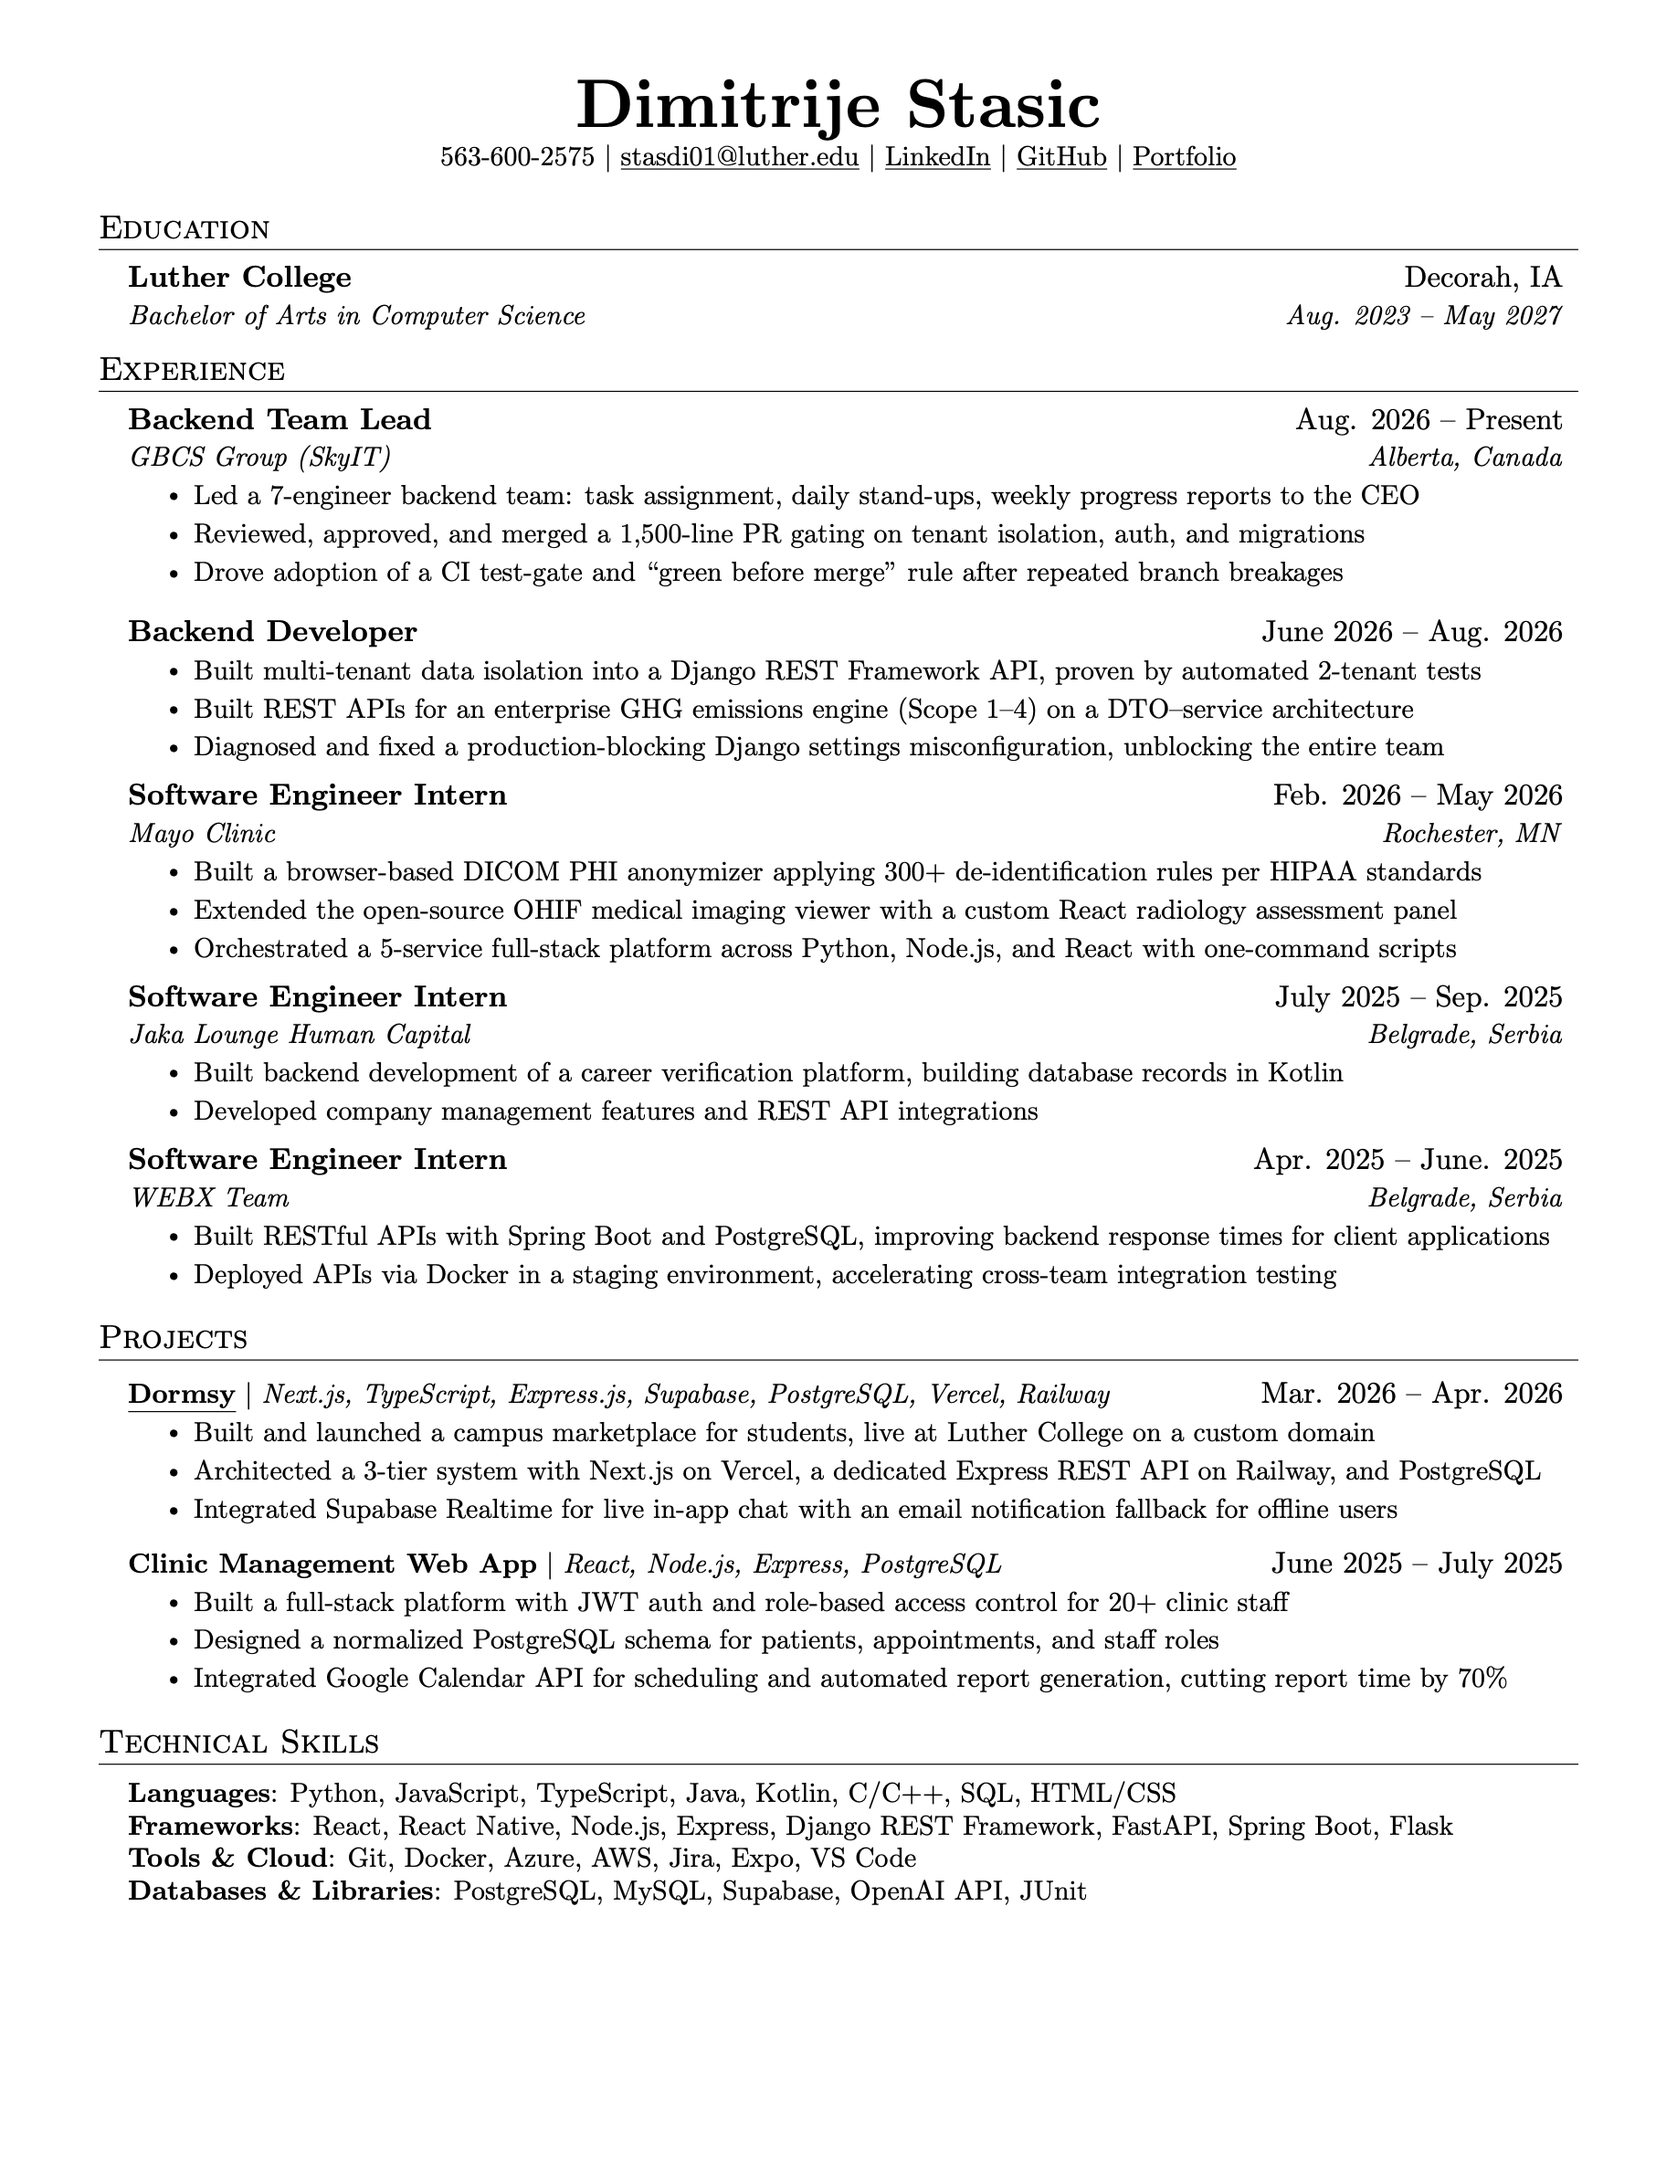
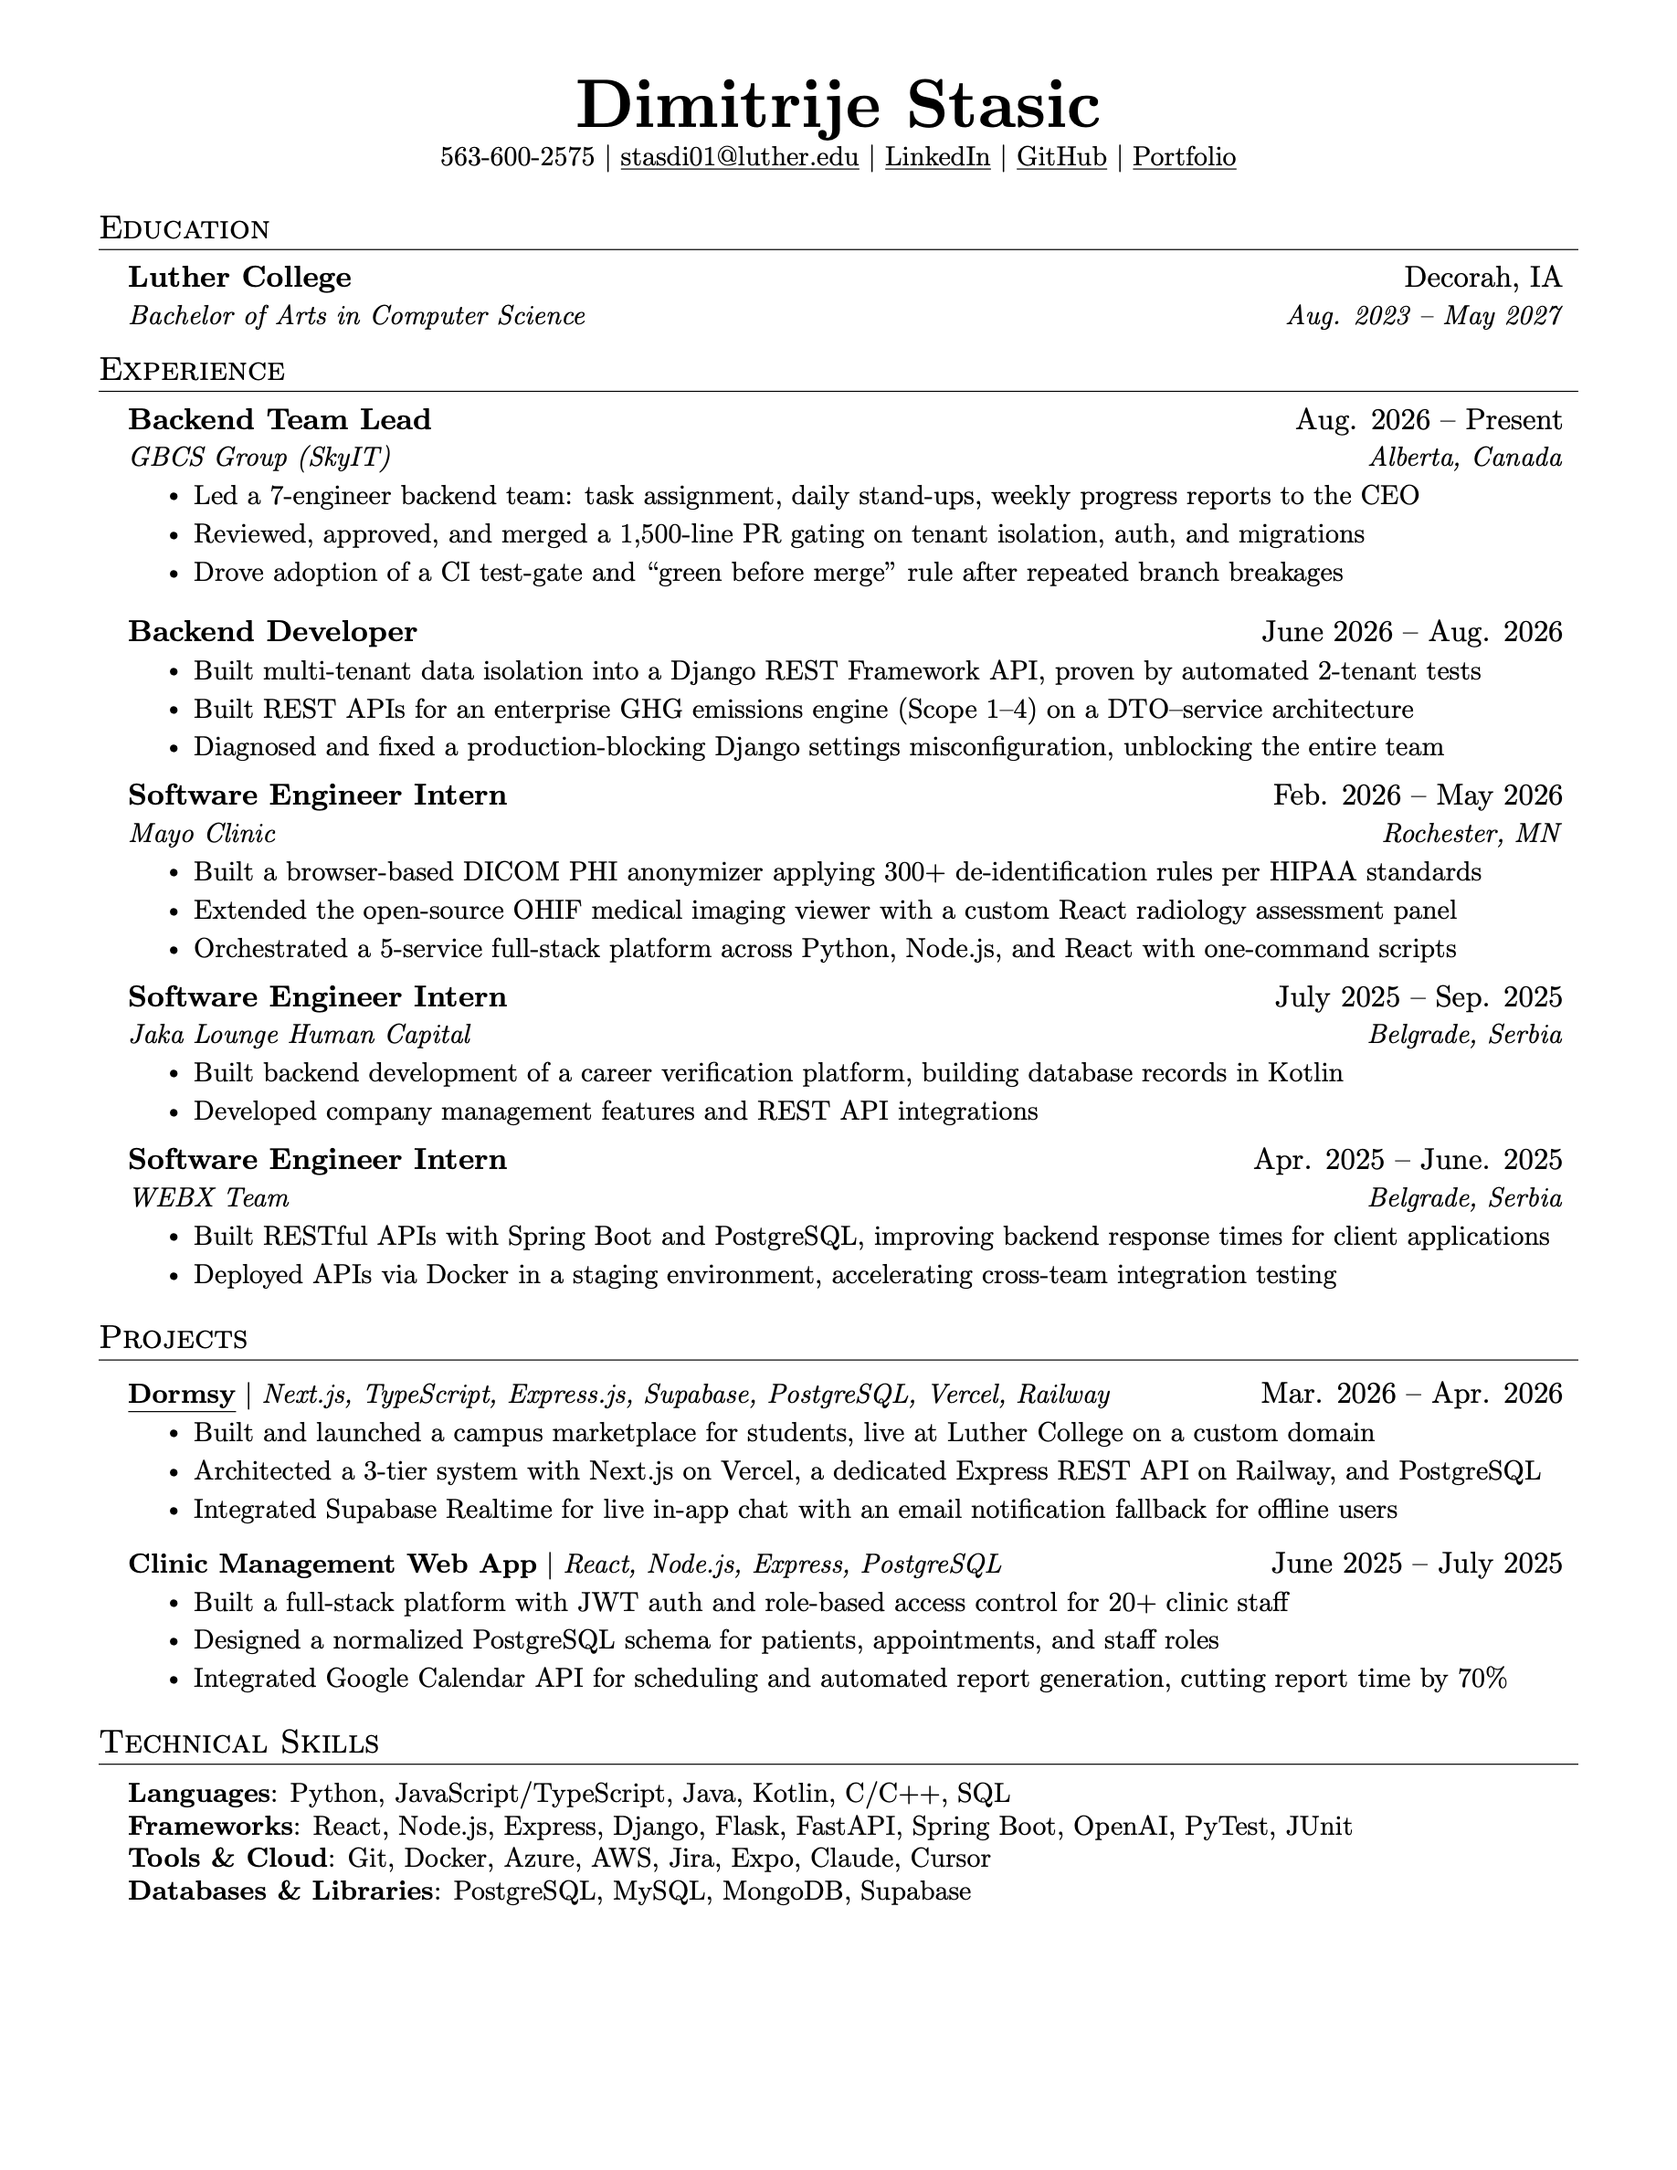
chore(resume): update the résumé pdf and its rendered page image
Swap in the current Dimitrije's Resume.pdf and re-rasterise page one to
  public/resume.png at the same 3x scale. Geometry is unchanged at one
  612x792 page, so the PAGE_WIDTH and PAGE_HEIGHT constants in ResumePage
  still describe the asset.

Changed region(s): [[0.3105, 0.8098, 0.7141, 0.8721]]

diff --git a/src/app/resume/page.tsx b/src/app/resume/page.tsx
@@ -2,17 +2,12 @@ import type { Metadata } from "next";
 import Image from "next/image";
 import { site } from "@content/site";
 import { BackLink } from "@/components/site/BackLink";
-
-export const metadata: Metadata = {
-  title: "Résumé",
-  description: `Résumé for ${site.name}: ${site.positioning}`,
-};
-
-// Pixel size of public/resume.png, rasterised from public/resume.pdf at 3x so
-// it stays sharp on retina displays. Next/Image needs the intrinsic dimensions
-// to reserve the right box before the file loads.
-const PAGE_WIDTH = 1836;
-const PAGE_HEIGHT = 2376;
+// Imported as a module rather than referenced as "/resume.png" so the build
+// fingerprints it. Swapping in a new résumé changes the emitted filename,
+// which retires the old image from every cache instead of leaving a stale
+// copy behind a URL that never changes. The import also carries the intrinsic
+// dimensions, so nothing has to be kept in sync by hand.
+import resumePage from "../../../public/resume.png";
 
 /**
  * The résumé itself, shown as a rendered page image rather than retyped as
@@ -37,10 +32,8 @@ export default function ResumePage() {
 
       <div className="cosmic-card mt-8 overflow-hidden rounded-2xl p-2 sm:mt-12 sm:p-4">
         <Image
-          src="/resume.png"
+          src={resumePage}
           alt={`Résumé of ${site.name}`}
-          width={PAGE_WIDTH}
-          height={PAGE_HEIGHT}
           priority
           sizes="(max-width: 896px) 100vw, 896px"
           className="h-auto w-full rounded-lg"

diff --git a/README.md b/README.md
@@ -47,9 +47,13 @@ whenever the PDF changes so the two never drift apart:
 sips -s format png public/resume.pdf --out public/resume.png   # 72 dpi
 ```
 
-For a sharp 3x render, use PDFKit (macOS) or `pdftoppm -r 216 -png`. The page
-component reads the pixel dimensions from constants at the top of
-`src/app/resume/page.tsx`; update them if the render size changes.
+For a sharp 3x render, use PDFKit (macOS) or `pdftoppm -r 216 -png`.
+
+`src/app/resume/page.tsx` imports the PNG as a module rather than pointing at
+`/resume.png`, so the build fingerprints it and its dimensions come along
+automatically. Dropping in a new render is the whole update: the emitted
+filename changes with the contents, which retires the old image from the
+browser and image-optimizer caches on its own.
 
 ## Design system
 
